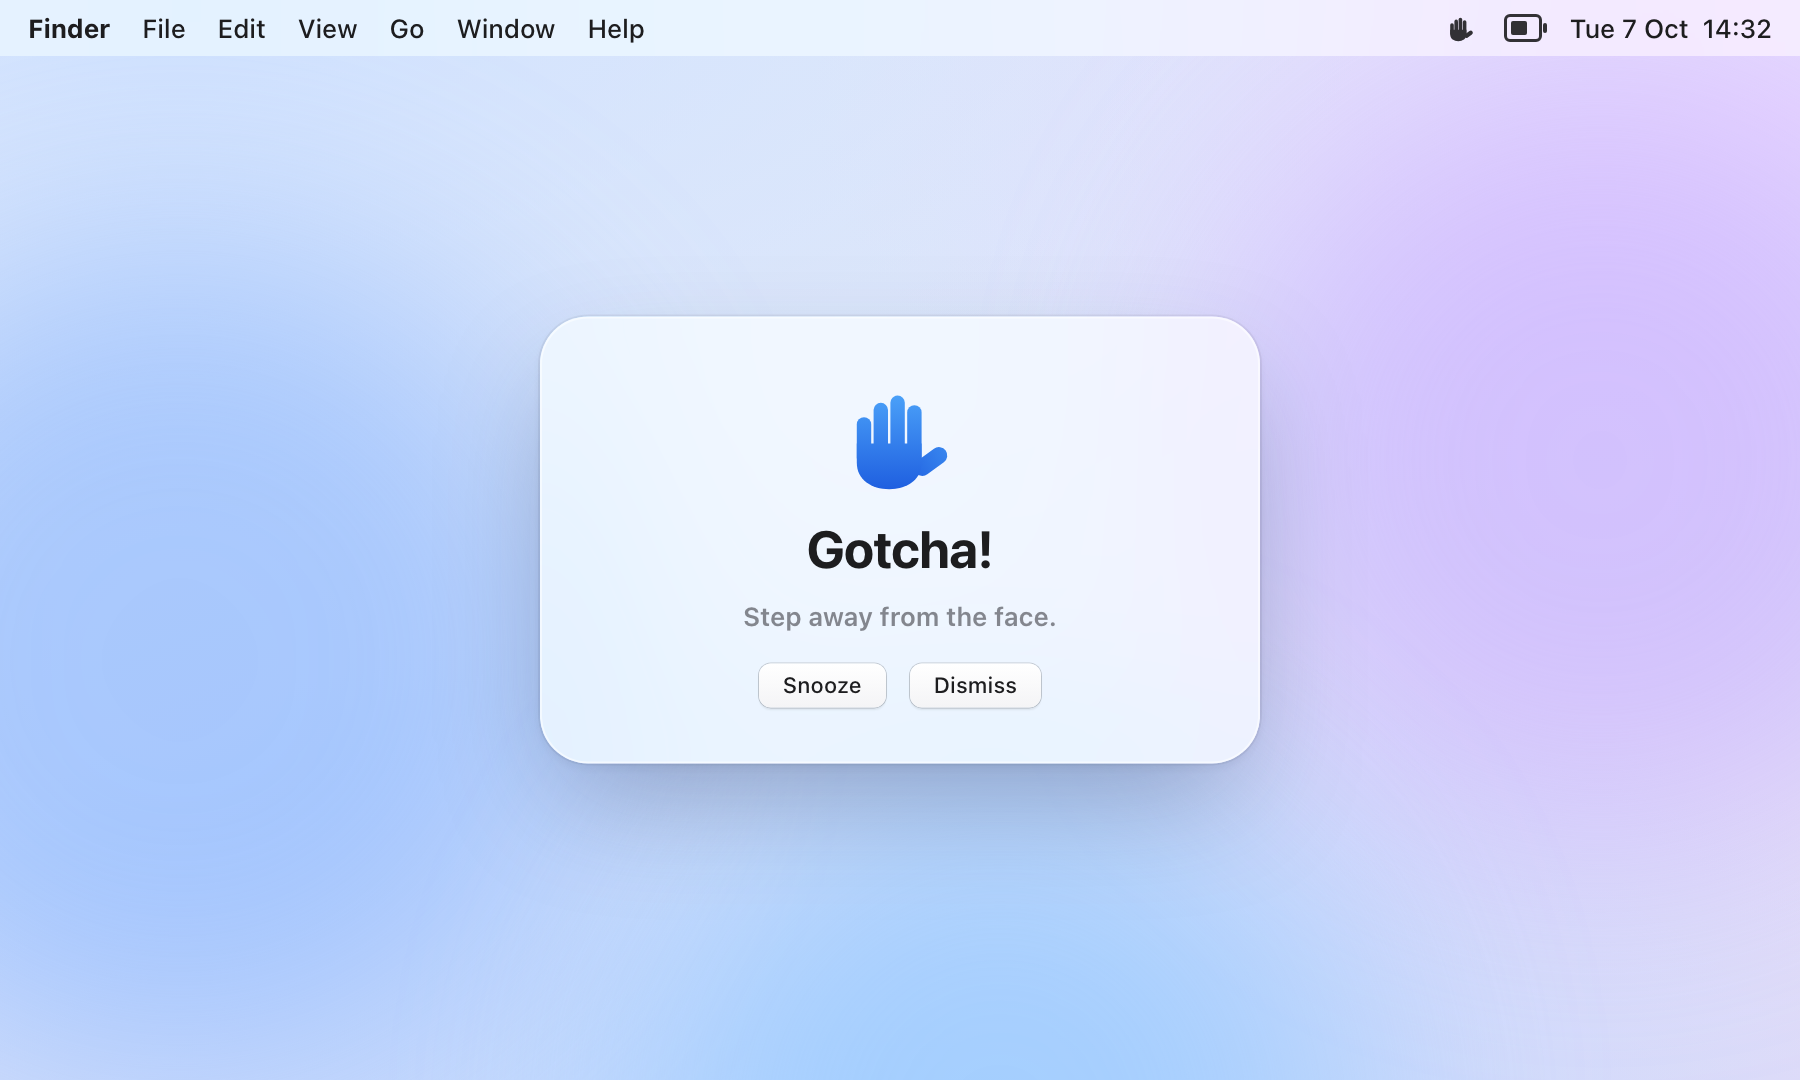
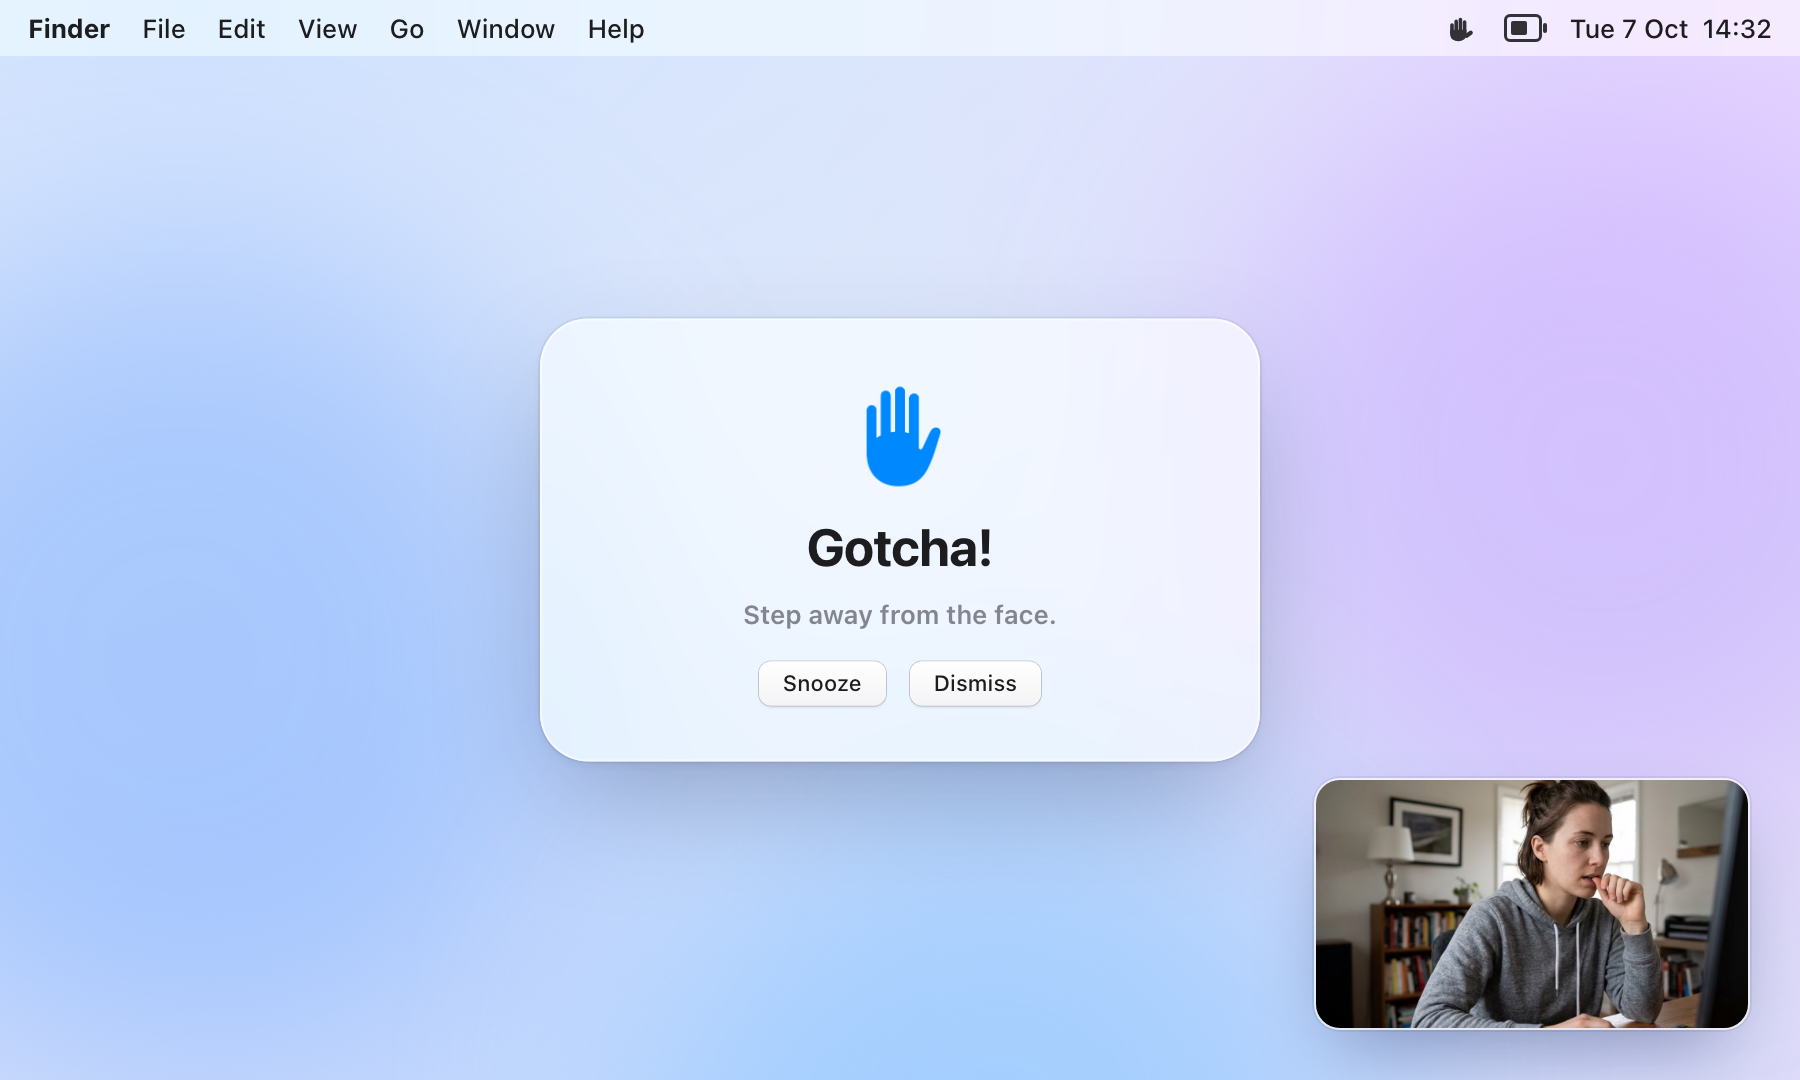
art: use the real SF Symbol hand and add a webcam thumbnail to the README hero
The overlay in the hero now shows the actual hand.raised.fill symbol in
system blue, rendered with AppKit, so it matches what the app draws when
the snapshot is off. A cropped webcam frame of someone biting their
nails sits in the bottom-right corner so the README shows the habit
Shoo is for at a glance.

diff --git a/README.md b/README.md
@@ -8,7 +8,7 @@ All image processing happens **on-device** using Apple's Vision framework. No vi
   <img src="art/AppIcon-1024.png" alt="Shoo app icon: a blue raised hand" width="112">
 </p>
 <p align="center">
-  <img src="art/readme-hero.png" alt="Shoo reminder overlay on a Mac desktop: a blue hand, the headline “Gotcha!”, the line “Step away from the face.”, and Snooze and Dismiss buttons" width="720">
+  <img src="art/readme-hero.png" alt="Shoo reminder overlay on a Mac desktop: a blue hand symbol, the headline “Gotcha!”, the line “Step away from the face.”, Snooze and Dismiss buttons, and a webcam thumbnail of someone biting their nails in the corner" width="720">
 </p>
 
 ## How it works
